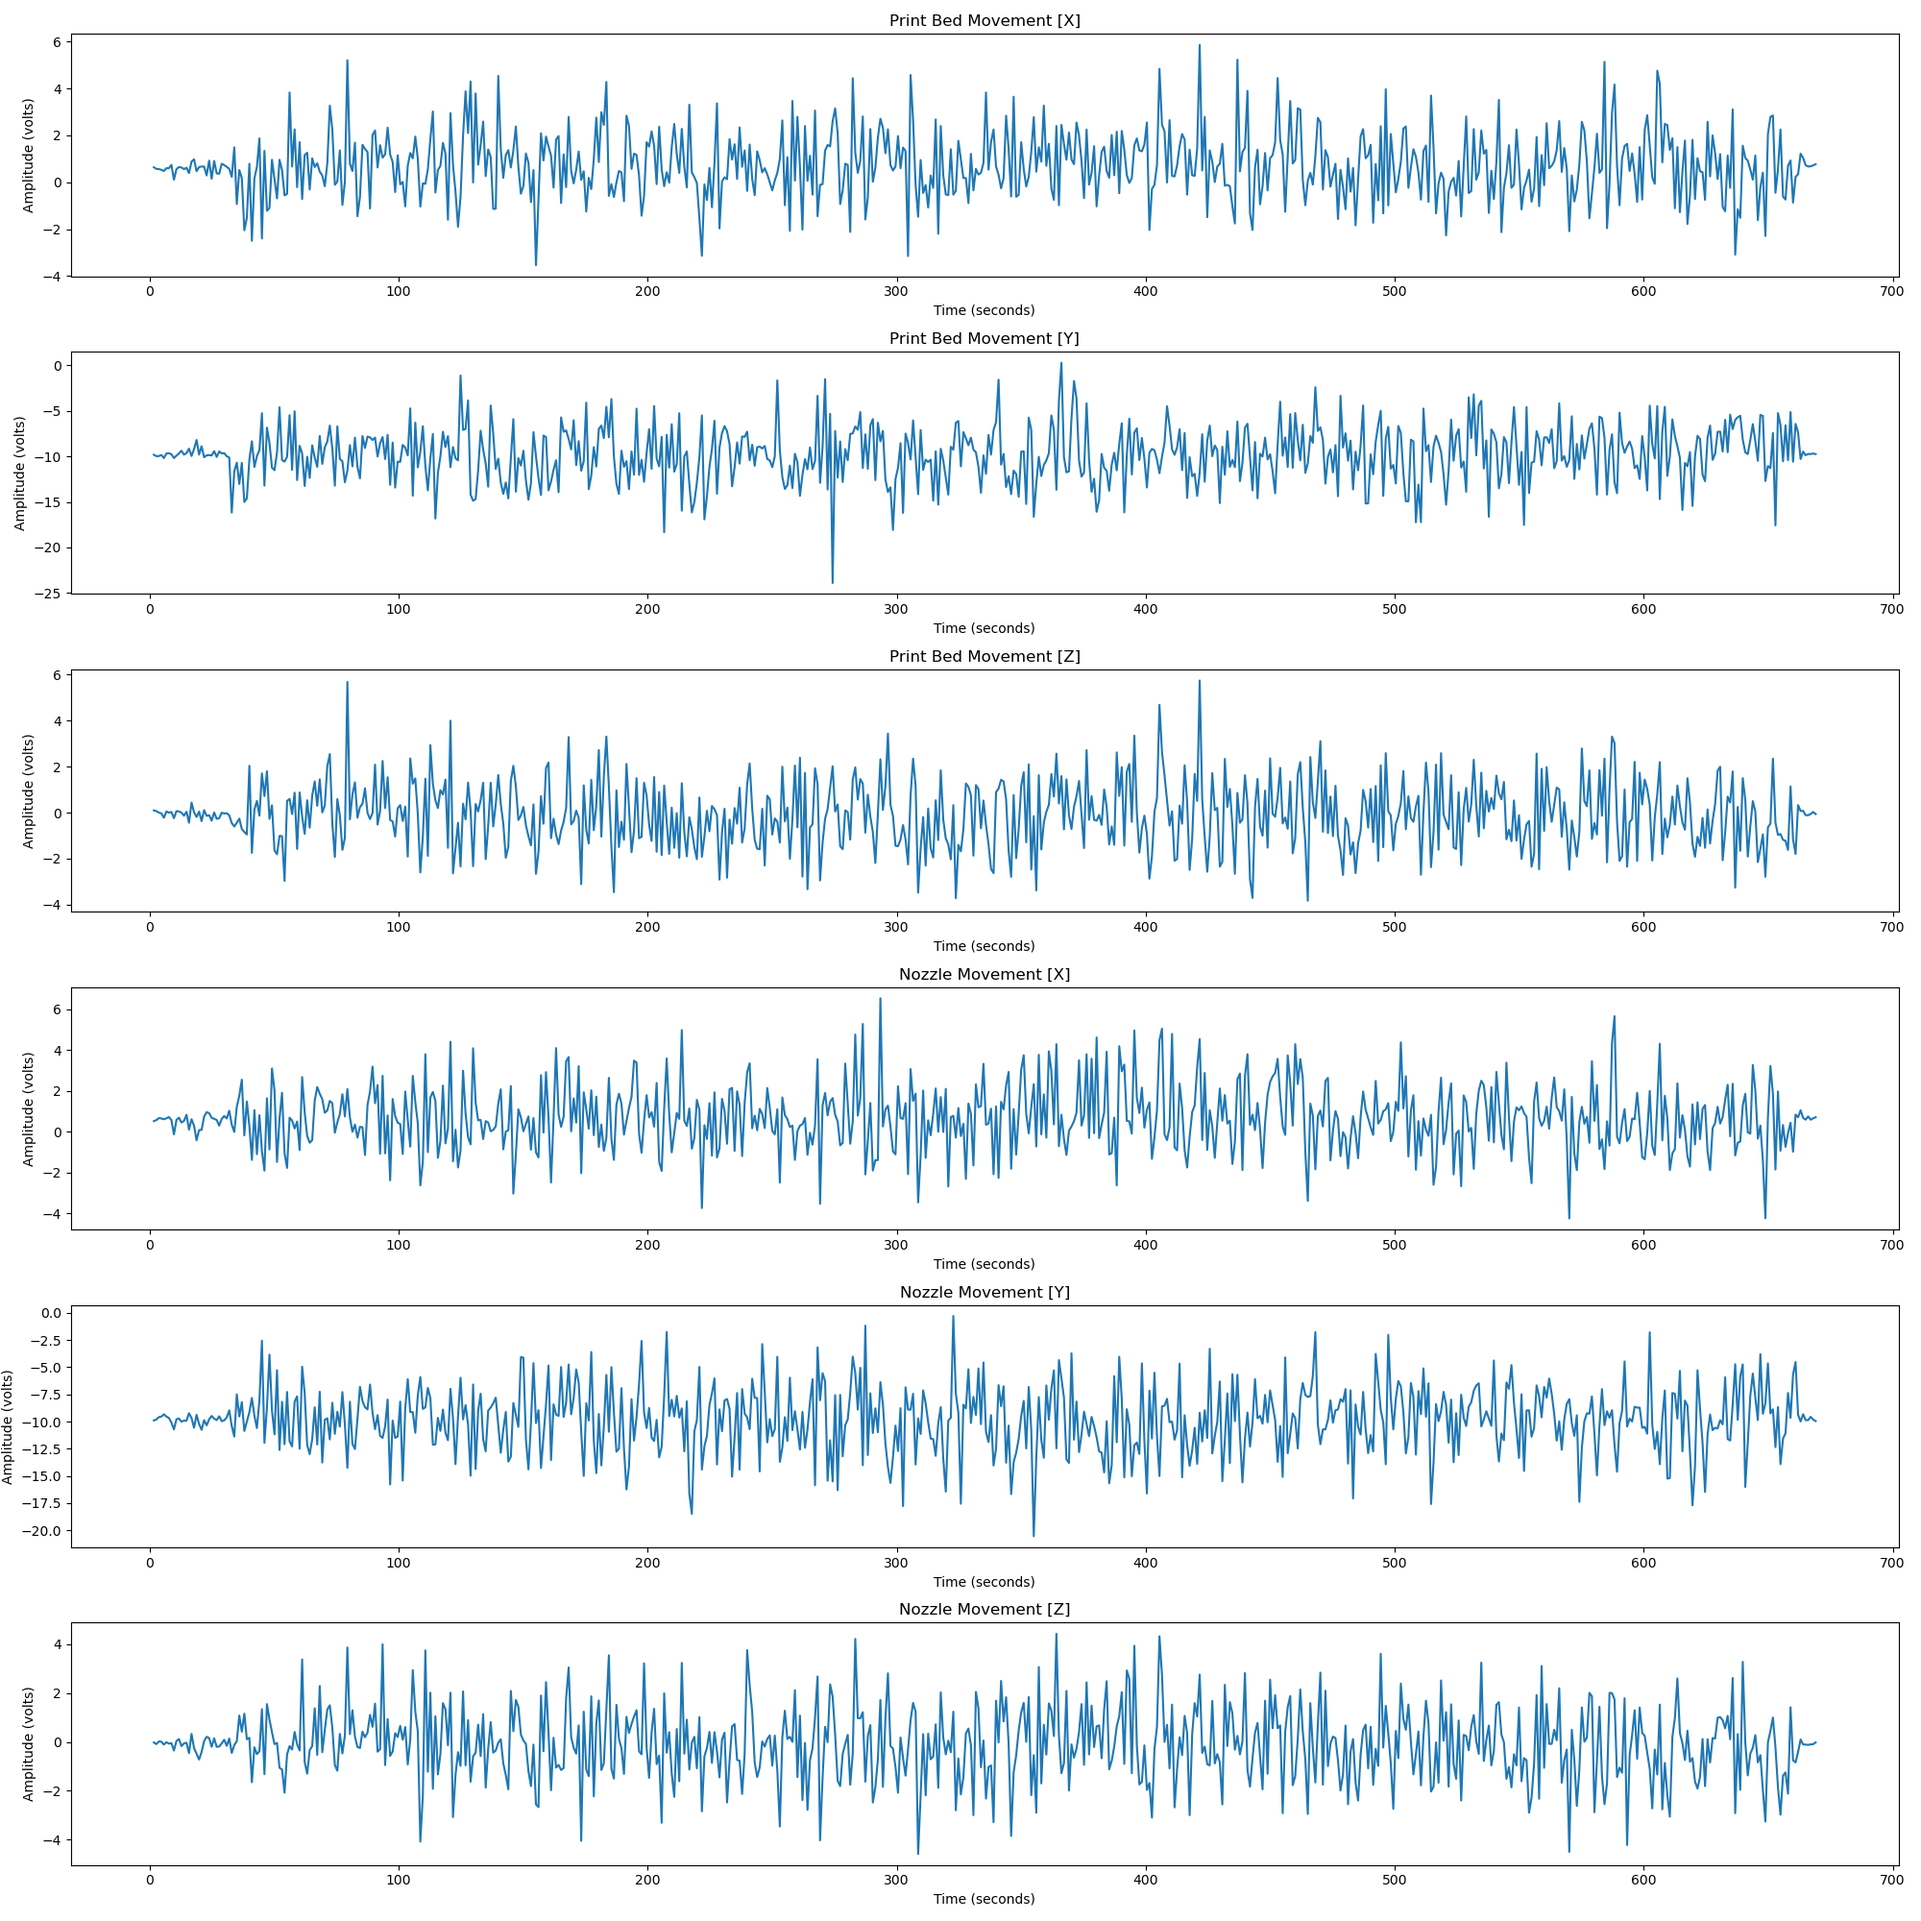
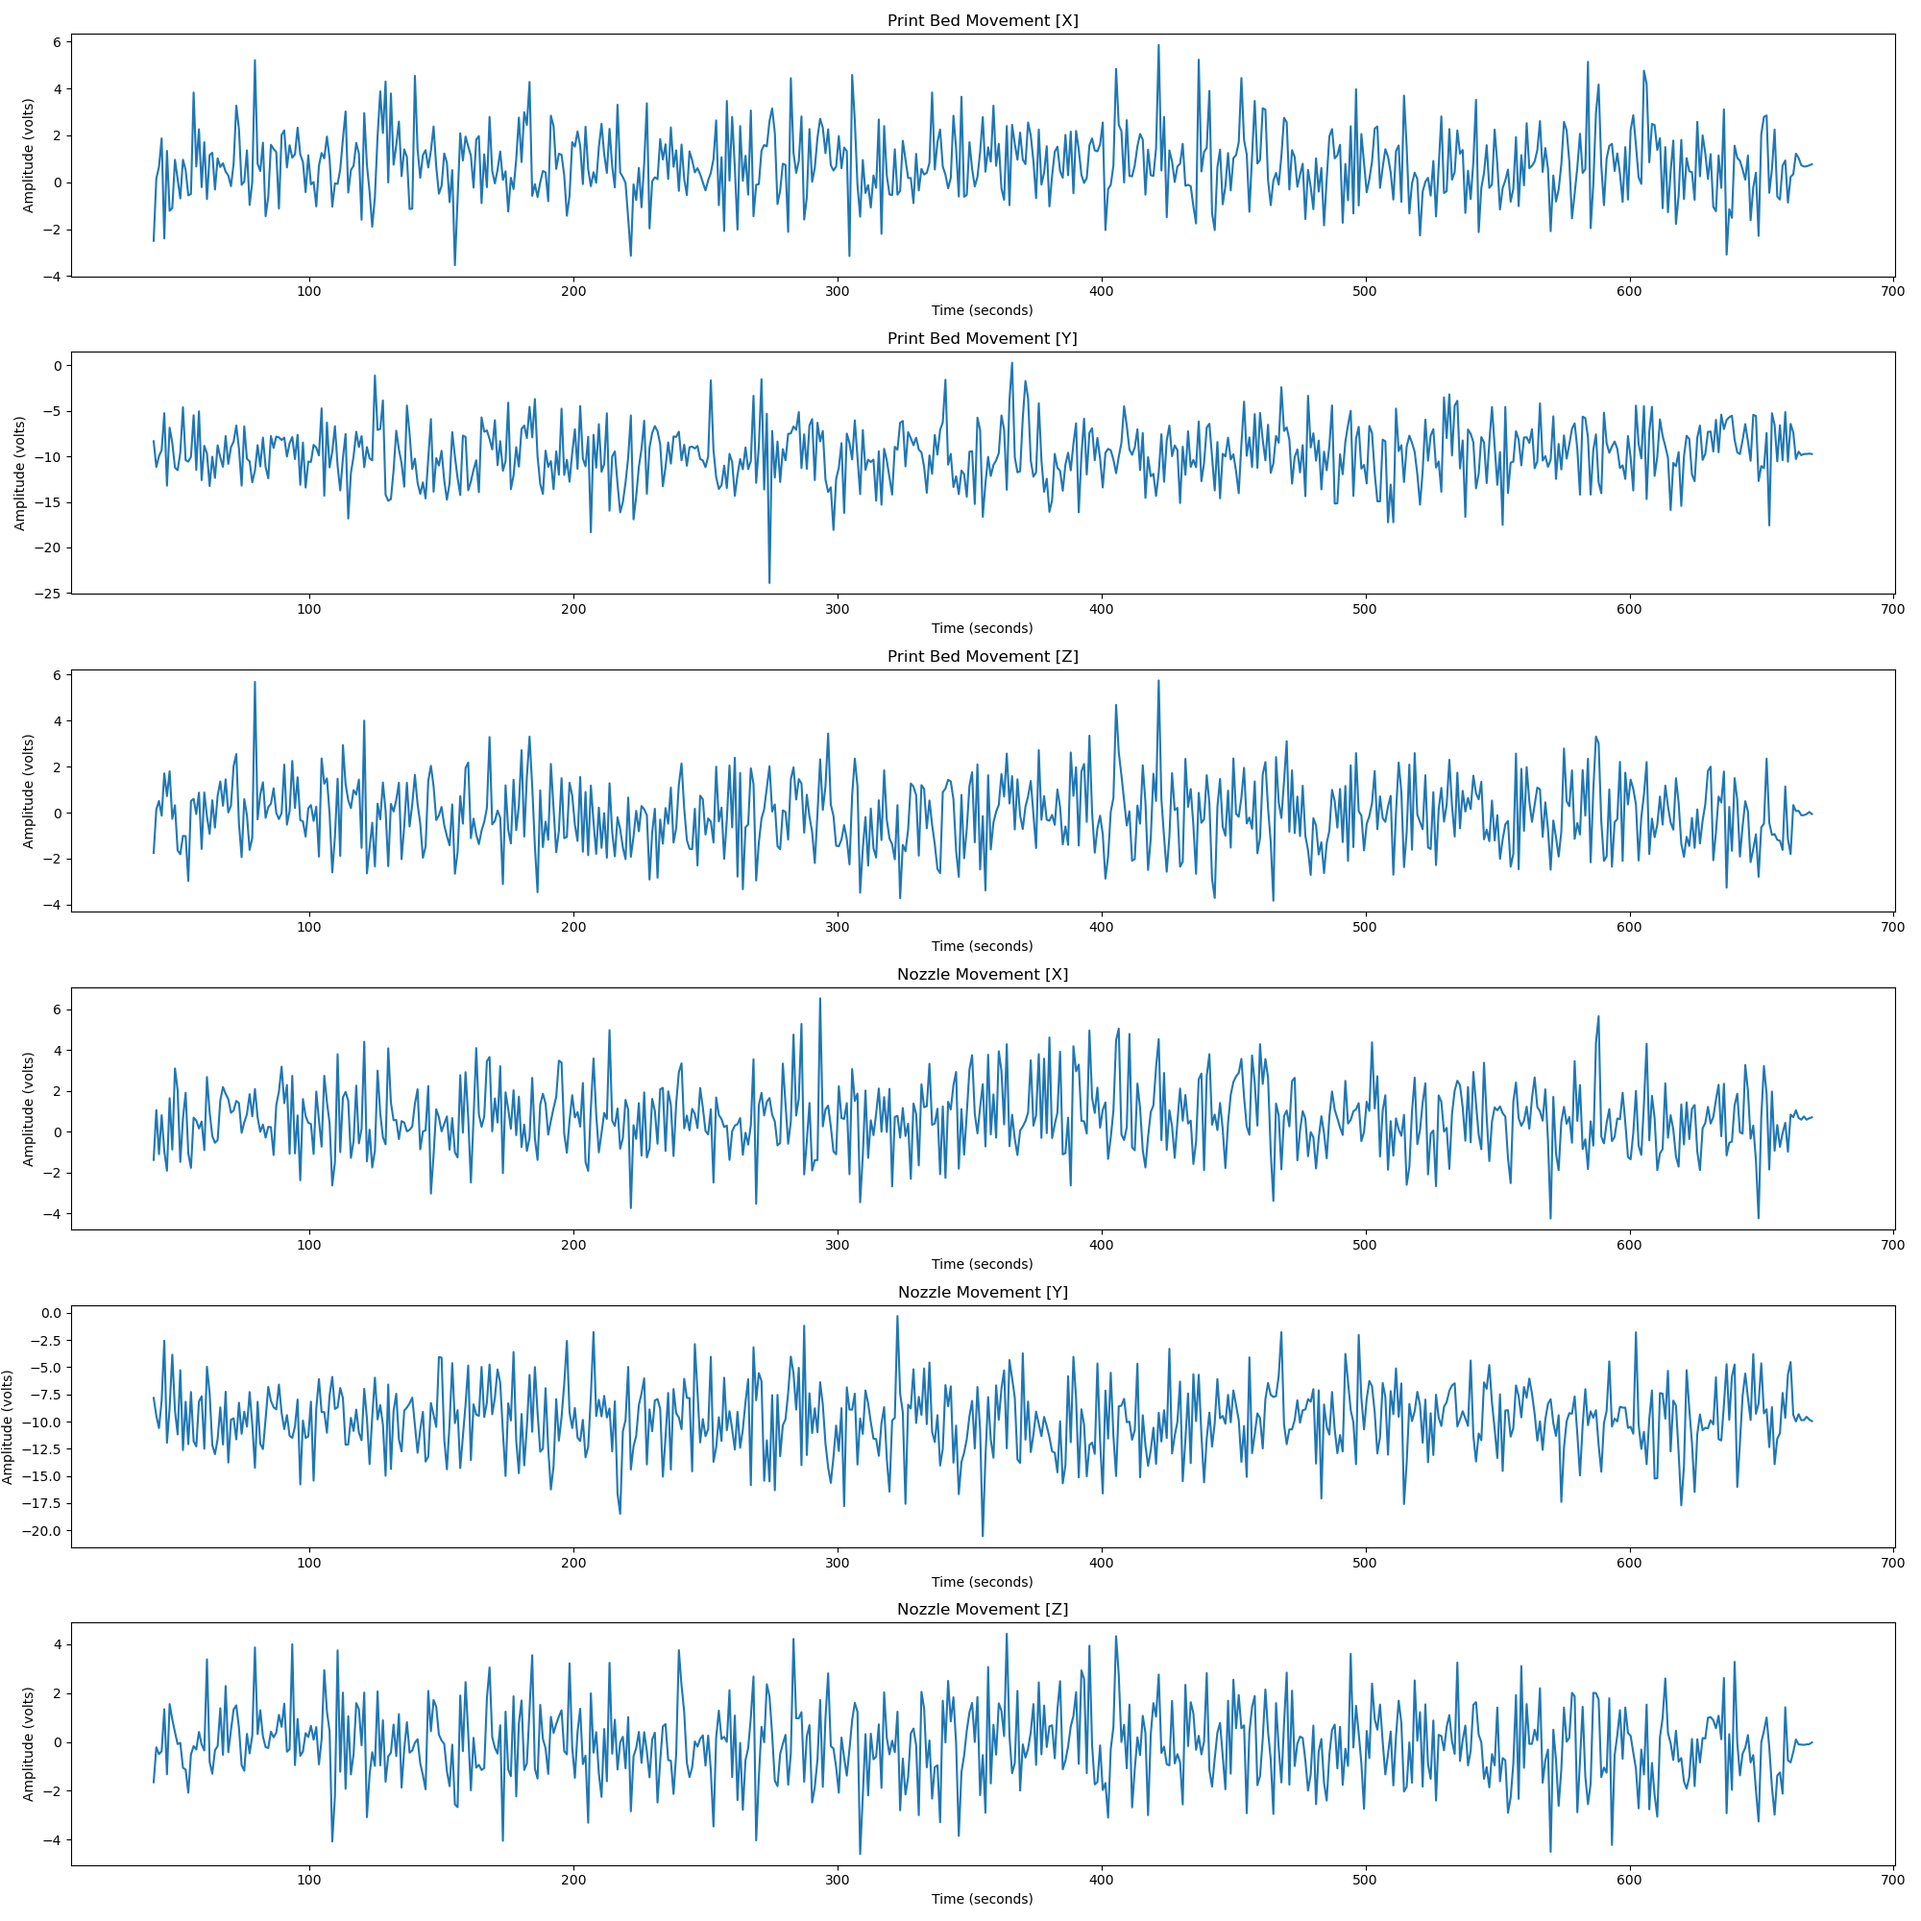
Pronterface + Improving Data Preprocessing

diff --git a/Team_1_DataPreprocessing.py b/Team_1_DataPreprocessing.py
@@ -5,7 +5,7 @@ import matplotlib.pyplot as plt
 date = 20250429
 run = 'concentric'
 sampling = '1Hz'
-trial = '2'
+trial = '1'
 
 # p - print bed accelerometer; n - nozzle; s - sound sensor (Right, Left)
 df = pd.read_csv('Team_1_IncreasedBaudRate' + f'/{date}_{run}_{sampling}_{trial}.csv',
@@ -13,17 +13,68 @@ df = pd.read_csv('Team_1_IncreasedBaudRate' + f'/{date}_{run}_{sampling}_{trial}
 dfNew = df['Time'].str.split(',', expand=True)
 dfNew = dfNew.apply(pd.to_numeric, errors='coerce')
 
-# define channels and eliminate bad rows
-dropRowValue = 1
-time = dfNew[0][dropRowValue:]
-xP, yP, zP = dfNew[1][dropRowValue:], dfNew[2][dropRowValue:], dfNew[3][dropRowValue:]
-xN, yN, zN = dfNew[4][dropRowValue:], dfNew[5][dropRowValue:], dfNew[6][dropRowValue:]
-sR, sL = dfNew[7][dropRowValue:], dfNew[8][dropRowValue:]
+# define channels and eliminate bad rows (the first few where no printing is indicated)
+dropRowValue = 40
+dfNew = dfNew[dropRowValue:]
 
-print('Loaded all data, dropped first row')
+time = dfNew[0]  # time in seconds
+xP, yP, zP = dfNew[1], dfNew[2], dfNew[3]
+xN, yN, zN = dfNew[4], dfNew[5], dfNew[6]
+sR, sL = dfNew[7], dfNew[8]
 
-#split data into windows
-windowSize = 1000 # 1000 samples = 1000ms = 1s
-windowStart = 0
-windowEnd = windowStart + windowSize
+print(f'Loaded all data, dropped first 40 rows (or equivalent to almost {dropRowValue} seconds at {sampling})')
 
+# %% Data Restructuring (sample, window size, and features)
+import numpy as np
+
+totalSamples = []
+
+for i in range(dropRowValue, len(df)):
+    totalSamples.append(np.array([xP.loc[i], yP.loc[i], zP.loc[i],
+                              xN.loc[i], yN.loc[i], zN.loc[i],
+                              sR.loc[i], sL.loc[i]]))
+    
+totalSamples = np.array(totalSamples)
+print(f'Total samples: {totalSamples.shape}')
+
+# %% visualize windows
+i, j = 0, 10  # i and j are the start and end of the window
+import matplotlib.pyplot as plt
+plt.figure(figsize=(10, 6))
+plt.plot(totalSamples[:, 0][i:j], label='X print bed')
+plt.plot(totalSamples[:, 1][i:j], label='Y print bed')
+plt.plot(totalSamples[:, 2][i:j], label='Z print bed')
+plt.plot(totalSamples[:, 3][i:j], label='X nozzle')
+plt.plot(totalSamples[:, 4][i:j], label='Y nozzle')
+plt.plot(totalSamples[:, 5][i:j], label='Z nozzle')
+plt.plot(totalSamples[:, 6][i:j], label='Sound Right')
+plt.plot(totalSamples[:, 7][i:j], label='Sound Left')
+plt.legend()
+plt.title('Window of 100 samples')
+
+# %% FIXED (unadaptive) windows, adjust later and do not make adaptive
+steps = 10
+
+if len(totalSamples) % steps != 0:
+    print('Data length is not divisible by window size.')
+    # Truncate the data to make it divisible by the window size
+    removal = len(totalSamples) % steps
+    # Remove the last few samples
+    totalSamples = totalSamples[:-removal]
+    print(f'Removed {removal} samples to make the data length divisible by {steps}.')
+    # Reshape into 3d array
+    totalSamples = totalSamples.reshape(-1, steps, 8)
+    print(totalSamples.shape)
+else:
+    print('Data length is divisible by window size.')
+    print(totalSamples.shape)
+    
+    
+#%% Truncate to 620 samples (620 ÷ 10 = 62 windows)
+truncated = data[:620]  # Remove last 3 rows
+
+# Reshape into 62 non-overlapping windows of 10 steps
+windows = truncated.reshape(62, 10, 8)
+
+
+# %%

diff --git a/Team_1_CompleteChannelVisuals.py b/Team_1_CompleteChannelVisuals.py
@@ -3,7 +3,7 @@ import pandas as pd
 import matplotlib.pyplot as plt
 
 date = 20250429
-run = 'triangle'
+run = 'concentric'
 sampling = '1Hz'
 trial = '1'
 
@@ -13,15 +13,16 @@ df = pd.read_csv('Team_1_IncreasedBaudRate' + f'/{date}_{run}_{sampling}_{trial}
 dfNew = df['Time'].str.split(',', expand=True)
 dfNew = dfNew.apply(pd.to_numeric, errors='coerce')
 
-dfNew
-#%% 2. define channels and eliminate bad rows
-dropRowValue = 1
-time = dfNew[0][dropRowValue:]
-xP, yP, zP = dfNew[1][dropRowValue:], dfNew[2][dropRowValue:], dfNew[3][dropRowValue:]
-xN, yN, zN = dfNew[4][dropRowValue:], dfNew[5][dropRowValue:], dfNew[6][dropRowValue:]
-sR, sL = dfNew[7][dropRowValue:], dfNew[8][dropRowValue:]
+# define channels and eliminate bad rows (the first few where no printing is indicated)
+dropRowValue = 40
+dfNew = dfNew[dropRowValue:]
 
-print('Loaded all data, dropped first row')
+time = dfNew[0]  # time in seconds
+xP, yP, zP = dfNew[1], dfNew[2], dfNew[3]
+xN, yN, zN = dfNew[4], dfNew[5], dfNew[6]
+sR, sL = dfNew[7], dfNew[8]
+
+print(f'Loaded all data, dropped first 40 rows (or equivalent to almost {dropRowValue} seconds at {sampling})')
 
 #%% 3. Visualization
 # acoustic channels

diff --git a/Team_1_1DCNNExample.py b/Team_1_1DCNNExample.py
@@ -1,0 +1,35 @@
+# %% 
+import tensorflow as tf
+from tensorflow.keras import layers
+
+# Sample data dimensions (1000 samples, 100 timesteps, 3 features)
+n_samples = 1000
+n_timesteps = 100
+n_features = 3
+
+# Generate synthetic data
+X = tf.random.normal((n_samples, n_timesteps, n_features))
+y = tf.random.uniform((n_samples,), maxval=2, dtype=tf.int32)
+
+# Model architecture
+model = tf.keras.Sequential([
+    layers.Input(shape=(n_timesteps, n_features)),
+    
+    # Conv1D with 64 filters and kernel_size=3
+    layers.Conv1D(64, 3, activation='relu', padding='same'),
+    layers.MaxPooling1D(2),
+    
+    # Second Conv1D block
+    layers.Conv1D(128, 3, activation='relu', padding='same'),
+    layers.MaxPooling1D(2),
+    
+    # Classification head
+    layers.GlobalAveragePooling1D(),
+    layers.Dense(50, activation='relu'),
+    layers.Dense(1, activation='sigmoid')  # Use softmax for multi-class
+])
+
+model.compile(optimizer='adam',
+              loss='binary_crossentropy',
+              metrics=['accuracy'])
+# %%
